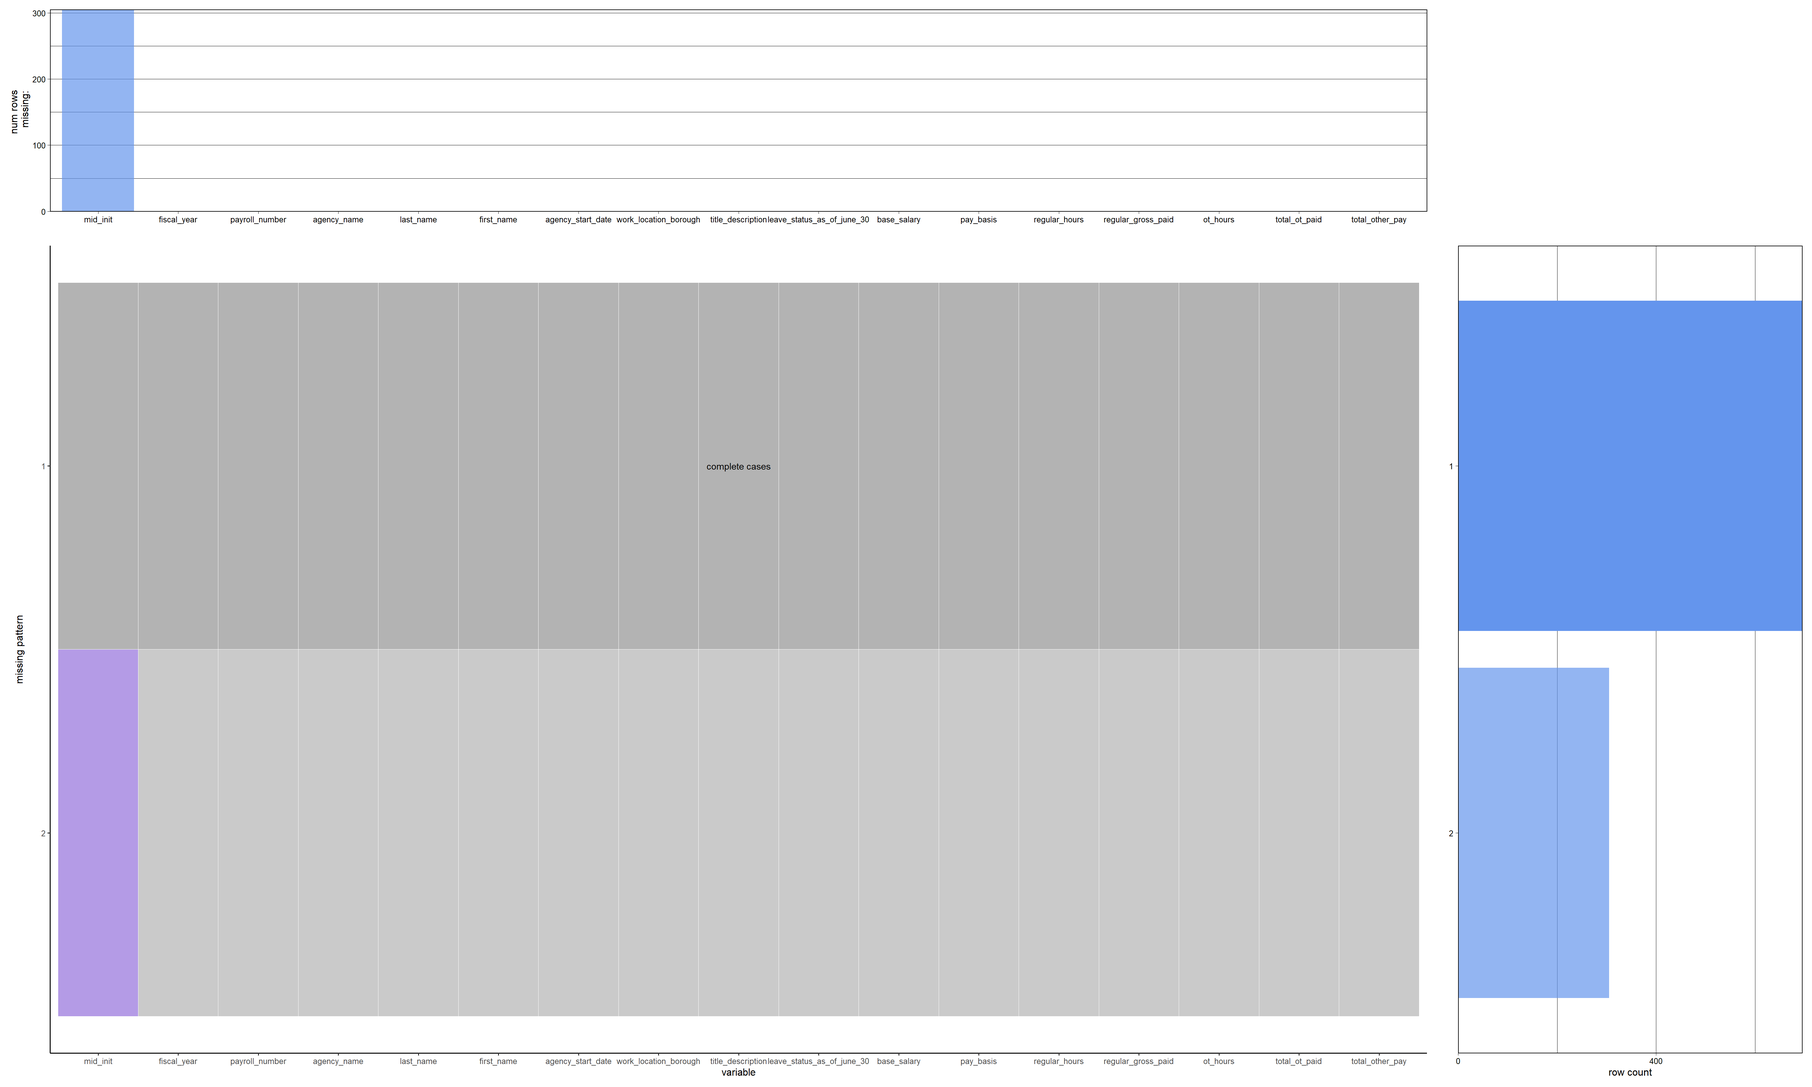
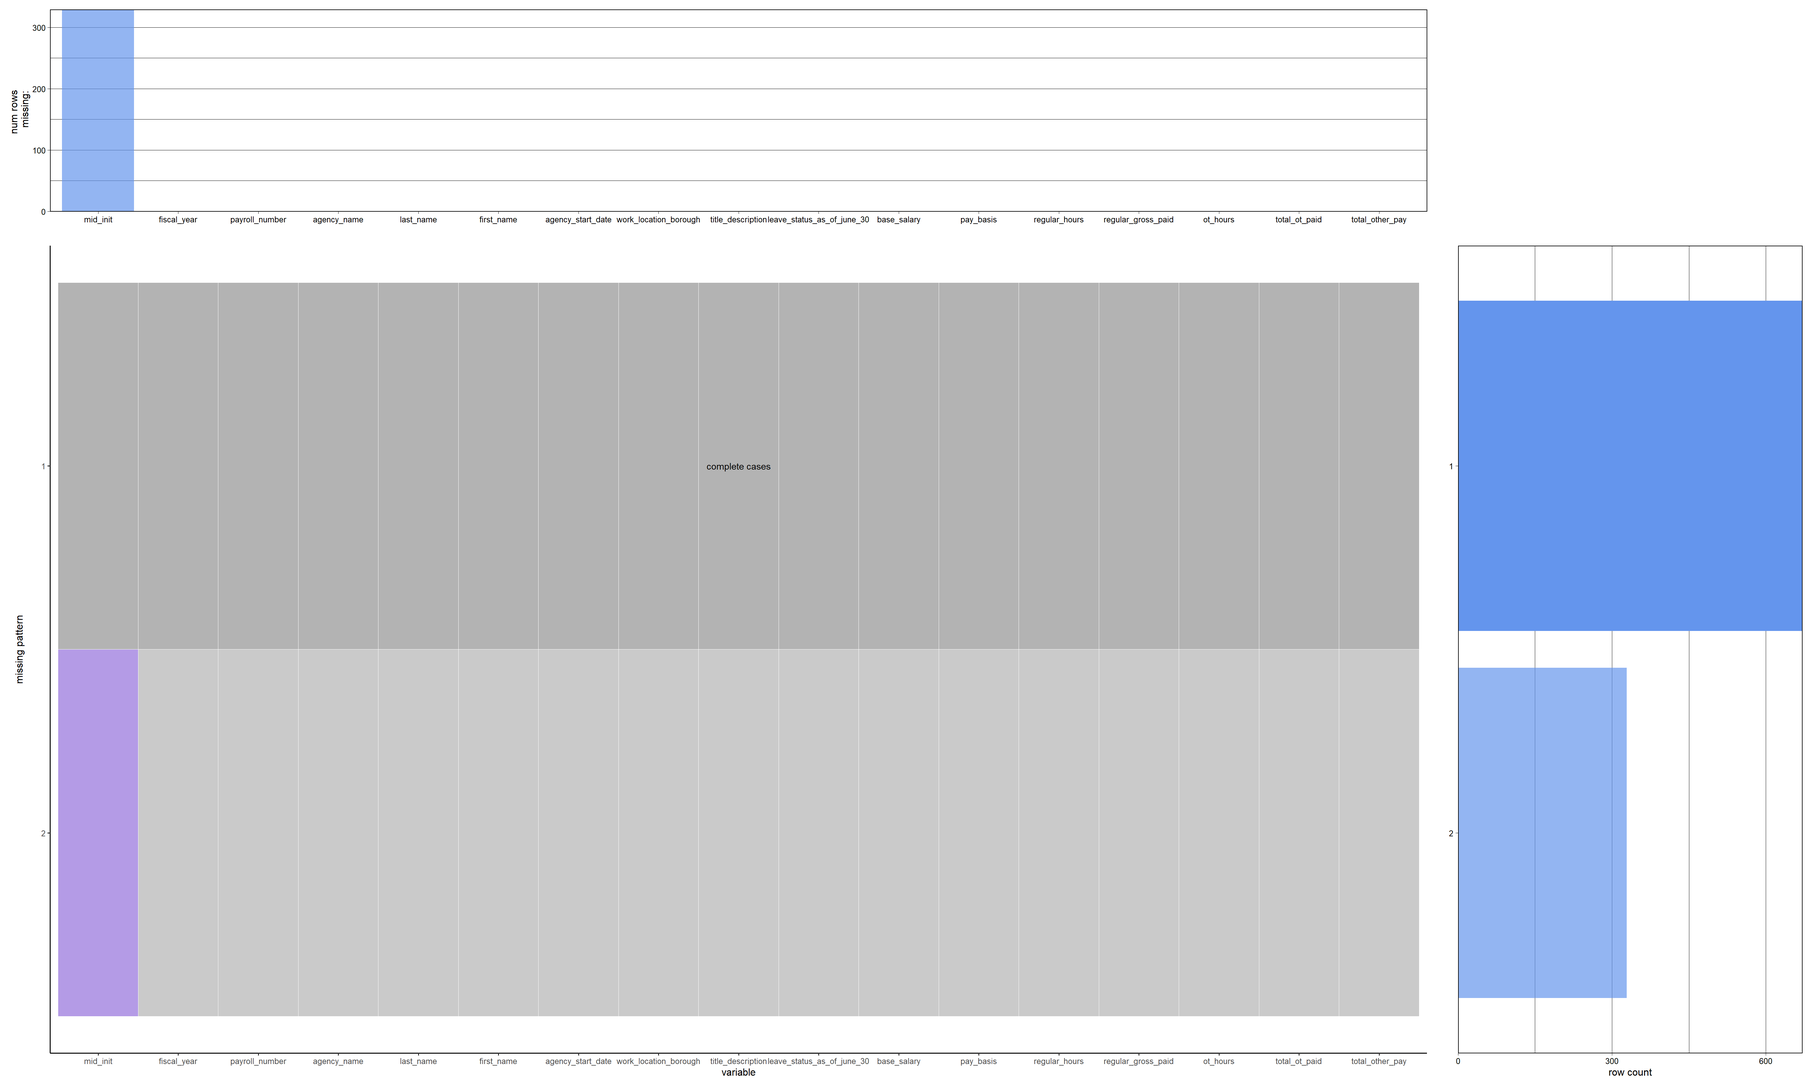
Changed the Description

Changed region(s): [[0.875, 0.5938, 0.9062, 0.9375]]

diff --git a/docs/data.html b/docs/data.html
@@ -2,7 +2,7 @@
 <html xmlns="http://www.w3.org/1999/xhtml" lang="en" xml:lang="en"><head>
 
 <meta charset="utf-8">
-<meta name="generator" content="quarto-1.3.433">
+<meta name="generator" content="quarto-1.3.353">
 
 <meta name="viewport" content="width=device-width, initial-scale=1.0, user-scalable=yes">
 
@@ -91,8 +91,7 @@ pre > code.sourceCode > span > a:first-child::before { text-decoration: underlin
     "search-more-matches-text": "more matches in this document",
     "search-clear-button-title": "Clear",
     "search-detached-cancel-button-title": "Cancel",
-    "search-submit-button-title": "Submit",
-    "search-label": "Search"
+    "search-submit-button-title": "Submit"
   }
 }</script>
 
@@ -111,7 +110,7 @@ pre > code.sourceCode > span > a:first-child::before { text-decoration: underlin
       <nav class="quarto-page-breadcrumbs" aria-label="breadcrumb"><ol class="breadcrumb"><li class="breadcrumb-item"><a href="./data.html"><span class="chapter-number">2</span>&nbsp; <span class="chapter-title">Data</span></a></li></ol></nav>
       <a class="flex-grow-1" role="button" data-bs-toggle="collapse" data-bs-target="#quarto-sidebar,#quarto-sidebar-glass" aria-controls="quarto-sidebar" aria-expanded="false" aria-label="Toggle sidebar navigation" onclick="if (window.quartoToggleHeadroom) { window.quartoToggleHeadroom(); }">      
       </a>
-      <button type="button" class="btn quarto-search-button" aria-label="" onclick="window.quartoOpenSearch();">
+      <button type="button" class="btn quarto-search-button" aria-label="Search" onclick="window.quartoOpenSearch();">
         <i class="bi bi-search"></i>
       </button>
     </div>
@@ -125,7 +124,7 @@ pre > code.sourceCode > span > a:first-child::before { text-decoration: underlin
     <div class="sidebar-title mb-0 py-0">
       <a href="./">NYC Payroll Data Analysis</a> 
         <div class="sidebar-tools-main">
-    <a href="https://github.com/atharva-011/NYCPayroll" rel="" title="Source Code" class="quarto-navigation-tool px-1" aria-label="Source Code"><i class="bi bi-github"></i></a>
+    <a href="https://github.com/atharva-011/NYCPayroll" title="Source Code" class="quarto-navigation-tool px-1" aria-label="Source Code"><i class="bi bi-github"></i></a>
 </div>
     </div>
       </div>
@@ -177,7 +176,7 @@ pre > code.sourceCode > span > a:first-child::before { text-decoration: underlin
    
   <ul>
   <li><a href="#technical-description" id="toc-technical-description" class="nav-link active" data-scroll-target="#technical-description"><span class="header-section-number">2.1</span> Technical Description</a></li>
-  <li><a href="#research-plan" id="toc-research-plan" class="nav-link" data-scroll-target="#research-plan"><span class="header-section-number">2.2</span> Research plan</a></li>
+  <li><a href="#research-plan" id="toc-research-plan" class="nav-link" data-scroll-target="#research-plan"><span class="header-section-number">2.2</span> Research Plan</a></li>
   <li><a href="#missing-value-analysis" id="toc-missing-value-analysis" class="nav-link" data-scroll-target="#missing-value-analysis"><span class="header-section-number">2.3</span> Missing Value Analysis</a></li>
   </ul>
 <div class="toc-actions"><div><i class="bi bi-github"></i></div><div class="action-links"><p><a href="https://github.com/atharva-011/NYCPayroll/edit/main/data.qmd" class="toc-action">Edit this page</a></p><p><a href="https://github.com/atharva-011/NYCPayroll/issues/new" class="toc-action">Report an issue</a></p></div></div></nav>
@@ -202,9 +201,6 @@ pre > code.sourceCode > span > a:first-child::before { text-decoration: underlin
 
 </header>
 
-<section id="technical-description" class="level2" data-number="2.1">
-<h2 data-number="2.1" class="anchored" data-anchor-id="technical-description"><span class="header-section-number">2.1</span> Technical Description</h2>
-<p>2.1 Technical description The data that we plan on using for Payroll Analysis is from NYC Open Data website and is titled as <strong>Citywide Payroll Data (Fiscal Year) </strong>. The data set was created back in 2015 and has been constantly been updated on a annual basis (last update was on November 28,2023). It tells us about the amount of money spent on salary and overtime pay for all municipal employees based in New York City. The data is provided by <strong>Office of Payroll Administration (OPA)</strong>.</p>
 <div class="cell">
 <details>
 <summary>Code</summary>
@@ -212,11 +208,14 @@ pre > code.sourceCode > span > a:first-child::before { text-decoration: underlin
 <span id="cb1-2"><a href="#cb1-2" aria-hidden="true" tabindex="-1"></a><span class="fu">library</span>(jsonlite)</span>
 <span id="cb1-3"><a href="#cb1-3" aria-hidden="true" tabindex="-1"></a><span class="fu">library</span>(knitr)</span>
 <span id="cb1-4"><a href="#cb1-4" aria-hidden="true" tabindex="-1"></a><span class="fu">library</span>(redav)</span>
-<span id="cb1-5"><a href="#cb1-5" aria-hidden="true" tabindex="-1"></a><span class="fu">library</span>(mi)</span></code><button title="Copy to Clipboard" class="code-copy-button"><i class="bi"></i></button></pre></div>
+<span id="cb1-5"><a href="#cb1-5" aria-hidden="true" tabindex="-1"></a><span class="fu">library</span>(mi)</span>
+<span id="cb1-6"><a href="#cb1-6" aria-hidden="true" tabindex="-1"></a><span class="fu">library</span>(ggplot2)</span></code><button title="Copy to Clipboard" class="code-copy-button"><i class="bi"></i></button></pre></div>
 </details>
 </div>
-<p>The data consists of 5.66 million rows (essentially 5.66 million municipal employees) and 17 columns. Every row basically tells us about the employee salary, their work location, agency, base pay, overtime (if any), etc.</p>
-<p>Here are the columns of the dataset:</p>
+<section id="technical-description" class="level2" data-number="2.1">
+<h2 data-number="2.1" class="anchored" data-anchor-id="technical-description"><span class="header-section-number">2.1</span> Technical Description</h2>
+<p>The data that we will be using to analyze Payroll Data is from the NYC Open Data <a href="https://opendata.cityofnewyork.us/">website</a> and is titled as <a href="https://data.cityofnewyork.us/City-Government/Citywide-Payroll-Data-Fiscal-Year-/k397-673e"><strong>Citywide Payroll Data (Fiscal Year)</strong></a>. The data set was created back in 2015 and has been constantly been updated on a annual basis (last update was on November 28,2023). It tells us about the amount of money spent on salaries and overtime pay for all municipal employees based in New York City. The data is provided by <strong>Office of Payroll Administration (OPA)</strong>.</p>
+<p>The data can be downloaded as a <a href="https://data.cityofnewyork.us/resource/k397-673e.json">JSON file</a> from the website mentioned above. We make an API request with this URL, to obtain the data and convert it to a Dataframe for further processing.</p>
 <div class="cell">
 <details>
 <summary>Code</summary>
@@ -226,8 +225,18 @@ pre > code.sourceCode > span > a:first-child::before { text-decoration: underlin
 <span id="cb2-4"><a href="#cb2-4" aria-hidden="true" tabindex="-1"></a>response <span class="ot">&lt;-</span> httr<span class="sc">::</span><span class="fu">GET</span>(<span class="at">url =</span> data_url)</span>
 <span id="cb2-5"><a href="#cb2-5" aria-hidden="true" tabindex="-1"></a>nyc_payroll_data <span class="ot">&lt;-</span> jsonlite<span class="sc">::</span><span class="fu">fromJSON</span>(<span class="fu">content</span>(response, <span class="st">"text"</span>, <span class="at">encoding =</span> <span class="st">"UTF-8"</span>))</span>
 <span id="cb2-6"><a href="#cb2-6" aria-hidden="true" tabindex="-1"></a></span>
-<span id="cb2-7"><a href="#cb2-7" aria-hidden="true" tabindex="-1"></a><span class="co"># Display columns of the dataset</span></span>
-<span id="cb2-8"><a href="#cb2-8" aria-hidden="true" tabindex="-1"></a><span class="fu">kable</span>(<span class="fu">data.frame</span>(<span class="at">Column_Names =</span> <span class="fu">names</span>(nyc_payroll_data)), <span class="st">"markdown"</span>)</span></code><button title="Copy to Clipboard" class="code-copy-button"><i class="bi"></i></button></pre></div>
+<span id="cb2-7"><a href="#cb2-7" aria-hidden="true" tabindex="-1"></a><span class="fu">print</span>(<span class="fu">dim</span>(nyc_payroll_data))</span></code><button title="Copy to Clipboard" class="code-copy-button"><i class="bi"></i></button></pre></div>
+</details>
+<div class="cell-output cell-output-stdout">
+<pre><code>[1] 1000   17</code></pre>
+</div>
+</div>
+<p>The data consists of 5.66 million rows (essentially 5.66 million municipal employees) and 17 columns. Every row basically tells us about the employee salary, their work location, agency, base pay, overtime (if any), etc.</p>
+<div class="cell">
+<details>
+<summary>Code</summary>
+<div class="sourceCode cell-code" id="cb4"><pre class="sourceCode r code-with-copy"><code class="sourceCode r"><span id="cb4-1"><a href="#cb4-1" aria-hidden="true" tabindex="-1"></a><span class="co"># Display columns of the dataset</span></span>
+<span id="cb4-2"><a href="#cb4-2" aria-hidden="true" tabindex="-1"></a><span class="fu">kable</span>(<span class="fu">data.frame</span>(<span class="at">Column_Names =</span> <span class="fu">names</span>(nyc_payroll_data)), <span class="st">"markdown"</span>)</span></code><button title="Copy to Clipboard" class="code-copy-button"><i class="bi"></i></button></pre></div>
 </details>
 <div class="cell-output-display">
 <table class="table table-sm table-striped small">
@@ -253,66 +262,68 @@ pre > code.sourceCode > span > a:first-child::before { text-decoration: underlin
 <td style="text-align: left;">first_name</td>
 </tr>
 <tr class="even">
+<td style="text-align: left;">mid_init</td>
+</tr>
+<tr class="odd">
 <td style="text-align: left;">agency_start_date</td>
 </tr>
-<tr class="odd">
+<tr class="even">
 <td style="text-align: left;">work_location_borough</td>
 </tr>
-<tr class="even">
+<tr class="odd">
 <td style="text-align: left;">title_description</td>
 </tr>
-<tr class="odd">
+<tr class="even">
 <td style="text-align: left;">leave_status_as_of_june_30</td>
 </tr>
-<tr class="even">
+<tr class="odd">
 <td style="text-align: left;">base_salary</td>
 </tr>
-<tr class="odd">
+<tr class="even">
 <td style="text-align: left;">pay_basis</td>
 </tr>
-<tr class="even">
+<tr class="odd">
 <td style="text-align: left;">regular_hours</td>
 </tr>
-<tr class="odd">
+<tr class="even">
 <td style="text-align: left;">regular_gross_paid</td>
 </tr>
-<tr class="even">
+<tr class="odd">
 <td style="text-align: left;">ot_hours</td>
 </tr>
-<tr class="odd">
+<tr class="even">
 <td style="text-align: left;">total_ot_paid</td>
 </tr>
-<tr class="even">
-<td style="text-align: left;">total_other_pay</td>
-</tr>
 <tr class="odd">
-<td style="text-align: left;">mid_init</td>
+<td style="text-align: left;">total_other_pay</td>
 </tr>
 </tbody>
 </table>
 </div>
 </div>
-<p>On further studying the data manually, we find that there are few inconsistencies in the data such that for few employees the salaries are not per annum but are per day/hour so we need to perform certain operation to ensure that all salaries are per annum.</p>
+<p>Presented above are the columns of the dataset.</p>
+<p>On further examination of the data, we find that there are few inconsistencies in the data:</p>
+<ul>
+<li><p>The salaries for certain employees have not been mentioned per annum but on a per day or hour basis. Hence, we need to scale the data accordingly, to ensure that the data is uniform and fair comparisons can be made.</p></li>
+<li><p>There exist some NAN values in the data.</p></li>
+</ul>
 </section>
 <section id="research-plan" class="level2" data-number="2.2">
-<h2 data-number="2.2" class="anchored" data-anchor-id="research-plan"><span class="header-section-number">2.2</span> Research plan</h2>
-<p>2.2 Research plan</p>
+<h2 data-number="2.2" class="anchored" data-anchor-id="research-plan"><span class="header-section-number">2.2</span> Research Plan</h2>
 <p>Explain in detail how your data will enable you to answer your research questions from the introduction.</p>
-<p>(suggested: 1 page)</p>
 </section>
 <section id="missing-value-analysis" class="level2" data-number="2.3">
 <h2 data-number="2.3" class="anchored" data-anchor-id="missing-value-analysis"><span class="header-section-number">2.3</span> Missing Value Analysis</h2>
-<p>2.3 Missing value analysis</p>
 <p>Describe any patterns you discover in missing values. If no values are missing, graphs should still be included showing that.</p>
 <p>(suggested: 2 graphs plus commentary) Showing count of NAN values per column</p>
 <div class="cell">
 <details>
 <summary>Code</summary>
-<div class="sourceCode cell-code" id="cb3"><pre class="sourceCode r code-with-copy"><code class="sourceCode r"><span id="cb3-1"><a href="#cb3-1" aria-hidden="true" tabindex="-1"></a><span class="fu">colSums</span>(<span class="fu">is.na</span>(nyc_payroll_data)) <span class="sc">|&gt;</span> <span class="fu">sort</span>(<span class="at">decreasing =</span> <span class="cn">TRUE</span>)</span></code><button title="Copy to Clipboard" class="code-copy-button"><i class="bi"></i></button></pre></div>
+<div class="sourceCode cell-code" id="cb5"><pre class="sourceCode r code-with-copy"><code class="sourceCode r"><span id="cb5-1"><a href="#cb5-1" aria-hidden="true" tabindex="-1"></a><span class="fu">colSums</span>(<span class="fu">is.na</span>(nyc_payroll_data)) <span class="sc">|&gt;</span> <span class="fu">sort</span>(<span class="at">decreasing =</span> <span class="cn">TRUE</span>)</span></code><button title="Copy to Clipboard" class="code-copy-button"><i class="bi"></i></button></pre></div>
 </details>
 <div class="cell-output cell-output-stdout">
 <pre><code>                  mid_init                fiscal_year 
-                       305                          0 
+                       282                          0 
             payroll_number                agency_name 
                          0                          0 
                  last_name                 first_name 
@@ -331,24 +342,31 @@ pre > code.sourceCode > span > a:first-child::before { text-decoration: underlin
                          0 </code></pre>
 </div>
 </div>
+<p>We see that only one column, namely <code>mid_init</code> has missing values. This feature represents the middle initial of the person under consideration.</p>
 <div class="cell">
 <details>
 <summary>Code</summary>
-<div class="sourceCode cell-code" id="cb5"><pre class="sourceCode r code-with-copy"><code class="sourceCode r"><span id="cb5-1"><a href="#cb5-1" aria-hidden="true" tabindex="-1"></a><span class="fu">plot_missing</span>(nyc_payroll_data, <span class="at">percent =</span> <span class="cn">FALSE</span>)</span></code><button title="Copy to Clipboard" class="code-copy-button"><i class="bi"></i></button></pre></div>
+<div class="sourceCode cell-code" id="cb7"><pre class="sourceCode r code-with-copy"><code class="sourceCode r"><span id="cb7-1"><a href="#cb7-1" aria-hidden="true" tabindex="-1"></a><span class="fu">plot_missing</span>(nyc_payroll_data, <span class="at">percent =</span> <span class="cn">FALSE</span>)</span></code><button title="Copy to Clipboard" class="code-copy-button"><i class="bi"></i></button></pre></div>
 </details>
 <div class="cell-output-display">
-<p><img src="data_files/figure-html/unnamed-chunk-4-1.png" class="img-fluid" width="2880"></p>
+<p><img src="data_files/figure-html/unnamed-chunk-5-1.png" class="img-fluid" width="2880"></p>
 </div>
 </div>
+<p>As can be seen from the above plot, there are only two patterns which can be observed in our data. The first being the complete lack of NaN values, whereas the second pattern exhibits missing values in one column only, namely, <code>mid_init</code>.</p>
+<p>The graph on the right shows that there are nearly 300 rows exhibiting the second pattern, and about 700 points exhibiting the first, where they do not have any missing values at all.</p>
+<p>We also get to see which columns have missing values in the form of a bar chart on top, and see that only one column falls under this category.</p>
 <div class="cell">
 <details>
 <summary>Code</summary>
-<div class="sourceCode cell-code" id="cb6"><pre class="sourceCode r code-with-copy"><code class="sourceCode r"><span id="cb6-1"><a href="#cb6-1" aria-hidden="true" tabindex="-1"></a><span class="fu">missing_data.frame</span>(nyc_payroll_data) <span class="sc">|&gt;</span> <span class="fu">image</span>()</span></code><button title="Copy to Clipboard" class="code-copy-button"><i class="bi"></i></button></pre></div>
+<div class="sourceCode cell-code" id="cb8"><pre class="sourceCode r code-with-copy"><code class="sourceCode r"><span id="cb8-1"><a href="#cb8-1" aria-hidden="true" tabindex="-1"></a><span class="fu">missing_data.frame</span>(nyc_payroll_data) <span class="sc">|&gt;</span> <span class="fu">image</span>()</span></code><button title="Copy to Clipboard" class="code-copy-button"><i class="bi"></i></button></pre></div>
 </details>
 <div class="cell-output-display">
-<p><img src="data_files/figure-html/unnamed-chunk-5-1.png" class="img-fluid" width="672"></p>
+<p><img src="data_files/figure-html/unnamed-chunk-6-1.png" class="img-fluid" width="672"></p>
 </div>
 </div>
+<p>This graph shows us the missing values in the entire dataset. The cells represent the actual values after scaling, defined by each row and column of the actual dataset. Higher values take on the lighter colors, whereas colors close to red represent values closer to -1.</p>
+<p>The values in black, indicate missing data. Here, we see that <code>mid_init</code> has missing data for nearly 300 hundred contiguous rows.</p>
+<p>Although the absolute reason for the same is unknown, it could be possible that this data was not collected at all in that period. This can be inferred from the pattern.</p>
 
 
 </section>

diff --git a/docs/index.html b/docs/index.html
@@ -8,7 +8,7 @@
 
 <meta name="author" content="Atharva Kulkarni (ak5070)">
 <meta name="author" content="Rameshwar Garg (rg3553)">
-<meta name="dcterms.date" content="2023-11-29">
+<meta name="dcterms.date" content="2023-11-30">
 
 <title>NYC Payroll Data Analysis</title>
 <style>
@@ -170,7 +170,7 @@ ul.task-list li input[type="checkbox"] {
     <div>
     <div class="quarto-title-meta-heading">Published</div>
     <div class="quarto-title-meta-contents">
-      <p class="date">November 29, 2023</p>
+      <p class="date">November 30, 2023</p>
     </div>
   </div>
   
@@ -183,18 +183,36 @@ ul.task-list li input[type="checkbox"] {
 <section id="introduction" class="level1" data-number="1">
 <h1 data-number="1"><span class="header-section-number">1</span> Introduction</h1>
 <p>The topic that we are working on is New York City Payroll Data Analysis. Payroll data provides insights into workforce dynamics, and demographic patterns of municipal employees of New York City. We aim to identify trends and patterns in the payroll of New York municipal employees for last 10 years (2014 - 2023). There are few topics that we think are important to study in order to understand the trends.</p>
-<p><strong>Geographic Influence on Base Salaries:</strong></p>
-<p>How does the geographic work location (borough) in New York City influence the base salaries of employees?</p>
-<p><strong>Work Experience, Payroll, and Borough Connections:</strong></p>
+<ul>
+<li><strong>Employee Compensation Distribution:</strong></li>
+</ul>
+<p>Examine the distribution of the total compensation of all the employees, and try to see gain insights on how salaries are distributed.</p>
+<ul>
+<li><strong>Influence of Geographic Location and Agency on Budget Allocation:</strong></li>
+</ul>
+<p>How does the geographic work location (borough) in New York City, along with the agency, influence the budget allocation?</p>
+<ul>
+<li><strong>Work Experience, Payroll, and Borough Connections:</strong></li>
+</ul>
 <p>Is there any connections between an individual’s amount of work experience, payroll, and the specific borough where they are employed?</p>
-<p><strong>Job Profile Impact on Payroll:</strong></p>
-<p>Does the job profile (Title Description) have an impact on the payroll? / Are certain type of jobs are borough specific?</p>
-<p><strong>Overtime Work and Payroll Relationship:</strong></p>
-<p>What is the relationship between overtime work and the payroll?</p>
-<p><strong>Leave Status and Workforce Dynamics:</strong></p>
+<ul>
+<li><strong>Job Profile &amp; Team Impact on Payroll:</strong></li>
+</ul>
+<p>Does the job profile (Title Description) have an impact on the payroll? / Are certain type of jobs are agency specific? How do the salaries vary?</p>
+<ul>
+<li><strong>Overtime Work and Payroll Relationship Over Time:</strong></li>
+</ul>
+<p>How has the relationship between overtime work and the payroll evolvd over time?</p>
+<ul>
+<li><strong>Leave Status and Workforce Dynamics:</strong></li>
+</ul>
 <p>Examining the leave status of employees.</p>
+<ul>
+<li><strong>Examining the Distribution of the Breakdown of the Salaries”</strong></li>
+</ul>
+<p>How are the various components of the total pay distributed?</p>
 <p>Additionally, we can study financial resources allocation and how much resources are devoted to overtime. Examining the impact of job profiles on payroll and identifying any borough-specific jobs will offer a deeper understanding of the payroll dynamics. Furthermore, the analysis into the relationship between overtime work and payroll aims to uncover insights into work culture and potential areas for improvement in work-life balance and the payroll itself(underpaid / overpaid).</p>
-<p>By addressing above mentioned questions, through exploratory data analysis and visualisation we can gain insights to form more inclusive and fair policies aimed at bridging income gaps, a better and inclusive job market, and guiding initiatives related to education, upskilling, and training to even out the disparity.</p>
+<p>By addressing above mentioned questions, through exploratory data analysis and visualization we can gain insights to form more inclusive and fair policies aimed at bridging income gaps, a better and inclusive job market, and guiding initiatives related to education, up-skilling, and training to even out the disparity, if any.</p>
 
 
 </section>
